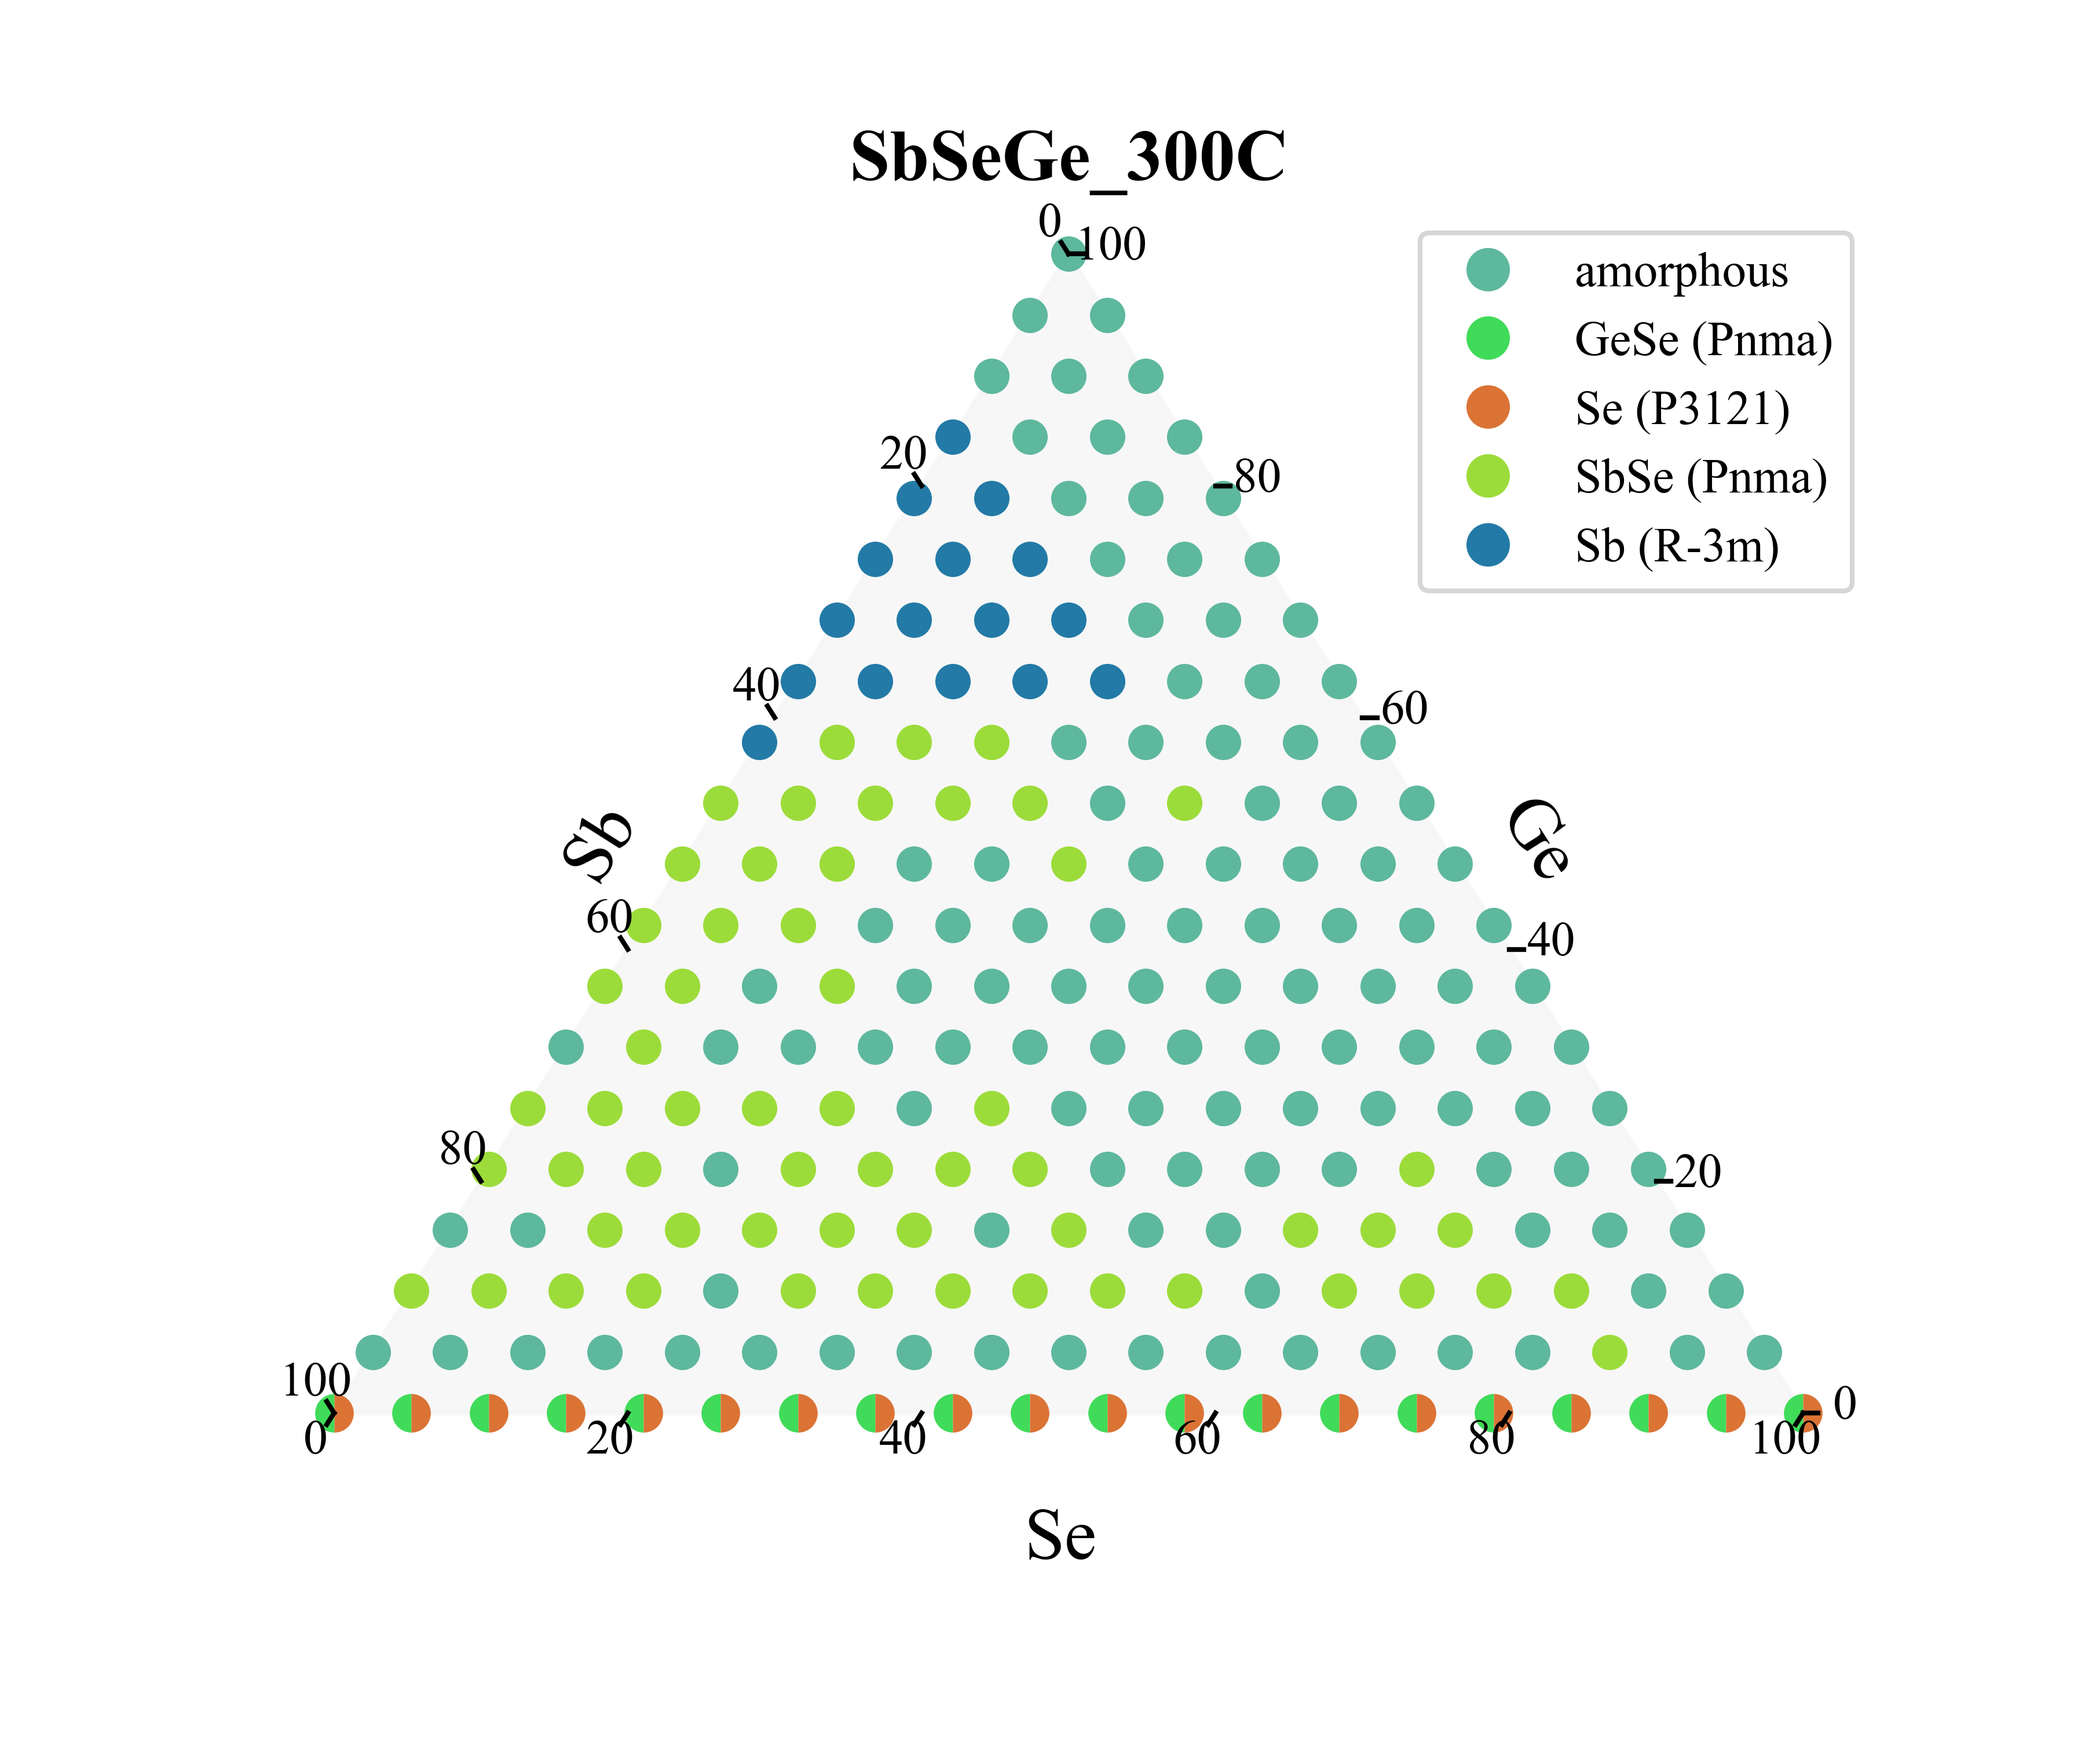
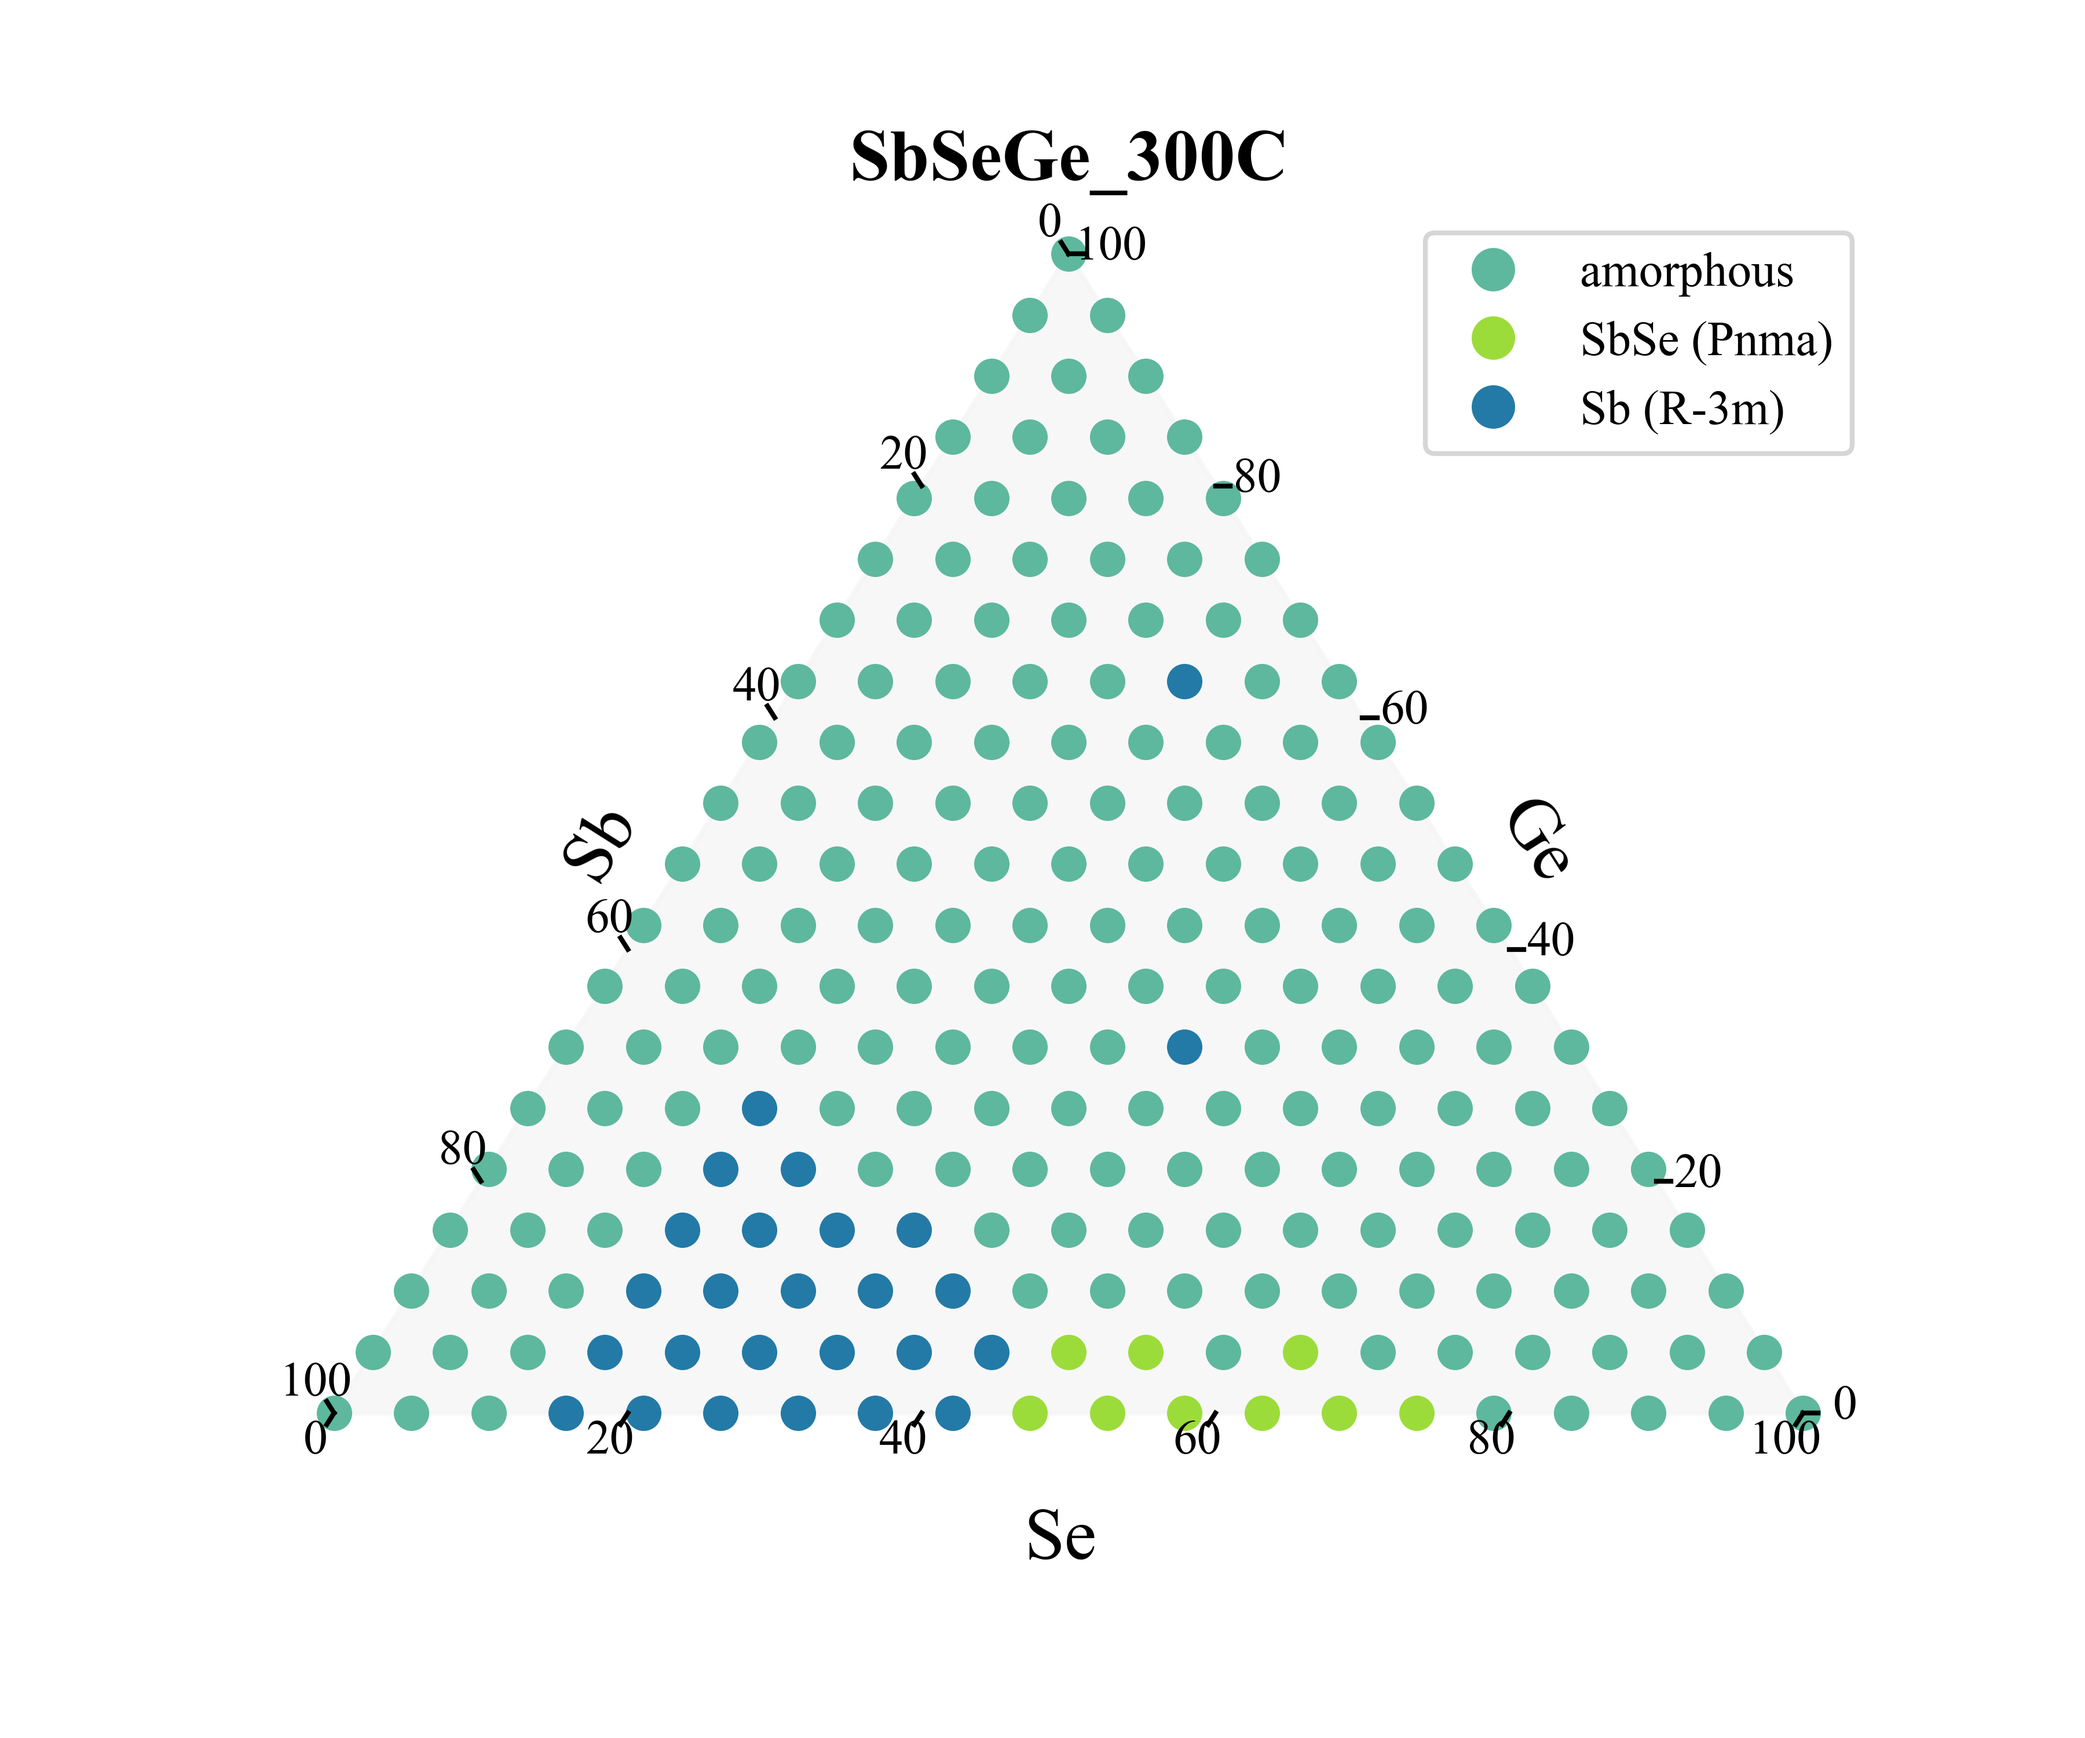
As figures

diff --git a/src/ternary_XRD.py b/src/ternary_XRD.py
@@ -38,7 +38,7 @@ plt.rc('ytick', labelsize=SMALL_SIZE)    # fontsize of the tick labels
 # 1. 导入CSV文件（非晶类型）
 top_directory = "data/SbSeGe_XRD/20240418_SbSeGe_100nm_300C_1h"
 csv_file = 'data/SbSeGe_XRD/20240418_SbSeGe_100nm_300C_1h/SbSeGe_300C.xlsx'
-title='SbSeGe_300C' #图片标题名和存储名
+title='SbSnGe_as' #图片标题名和存储名
 
 df_peaks = pd.read_excel(csv_file)
 #df_peaks = pd.read_csv(csv_file)
@@ -631,6 +631,23 @@ if title == 'SbSeGe_300C':
     ordered_custom_order[latter] = 'SbSe (Pnma)'
     labels, ordered_custom_order = fb.exchange2(labels, former, ordered_custom_order, latter=latter, others='True')
 
+    former = 1
+    latter = 0
+    labels, ordered_custom_order = fb.exchange2(labels, former, ordered_custom_order, latter=latter, others='True')
+
+    point_Num = [172, 171, 170, 169, 168, 156, 157, 158, 98, 51]
+    latter = 2
+    labels, ordered_custom_order = fb.exchange3(labels, point_Num, ordered_custom_order, latter, others='True')
+
+    point_Num = [159, 161, 149, 152, 134, 128, 130, 100, 101, 102, 103, 74, 75, 76, 39, 40, 41, 42, 71, 70, 69, 68, 67,
+                 65, 45, 46, 47, 48, 49, 62, 61, 86, 60, 52, 53, 54, 22, 44, 78, 79, 81, 80]
+    latter = 0
+    labels, ordered_custom_order = fb.exchange3(labels, point_Num, ordered_custom_order, latter, others='True')
+
+    point_Num = [105]
+    latter = 1
+    labels, ordered_custom_order = fb.exchange3(labels, point_Num, ordered_custom_order, latter, others='True')
+
 print('labels:', labels)
 print('ordered_custom_order:', ordered_custom_order)
 
@@ -647,7 +664,7 @@ print('ordered_custom_order:', ordered_custom_order)
 #plt.savefig(save_path+title+'.png',dpi = 600) #保存图的命令
 
 plot_ternary_diagram(phase_type=ordered_custom_order,
-                     phase_index=labels,
+                     phase_index=rotate_phase_index(labels),
                      labels=['Se', 'Ge', 'Sb'],
                      title=title,
                      color={
@@ -674,7 +691,7 @@ plot_ternary_diagram(phase_type=ordered_custom_order,
 # 将点击事件绑定到散点图上,创建带有绑定参数的新函数，如果没有相应directory隐去下面部分
 plt.ion()
 on_pick_with_params = partial(fb.on_pick, directory=directory, angle_center=angle_center, r=r, sigma=sigma, window_size=window_size)
-fig.canvas.mpl_connect('pick_event', on_pick_with_params)
+# fig.canvas.mpl_connect('pick_event', on_pick_with_params)
 plt.ioff()
 #fig.savefig('SbSnGe-150C.png',dpi=600)
 plt.show()
